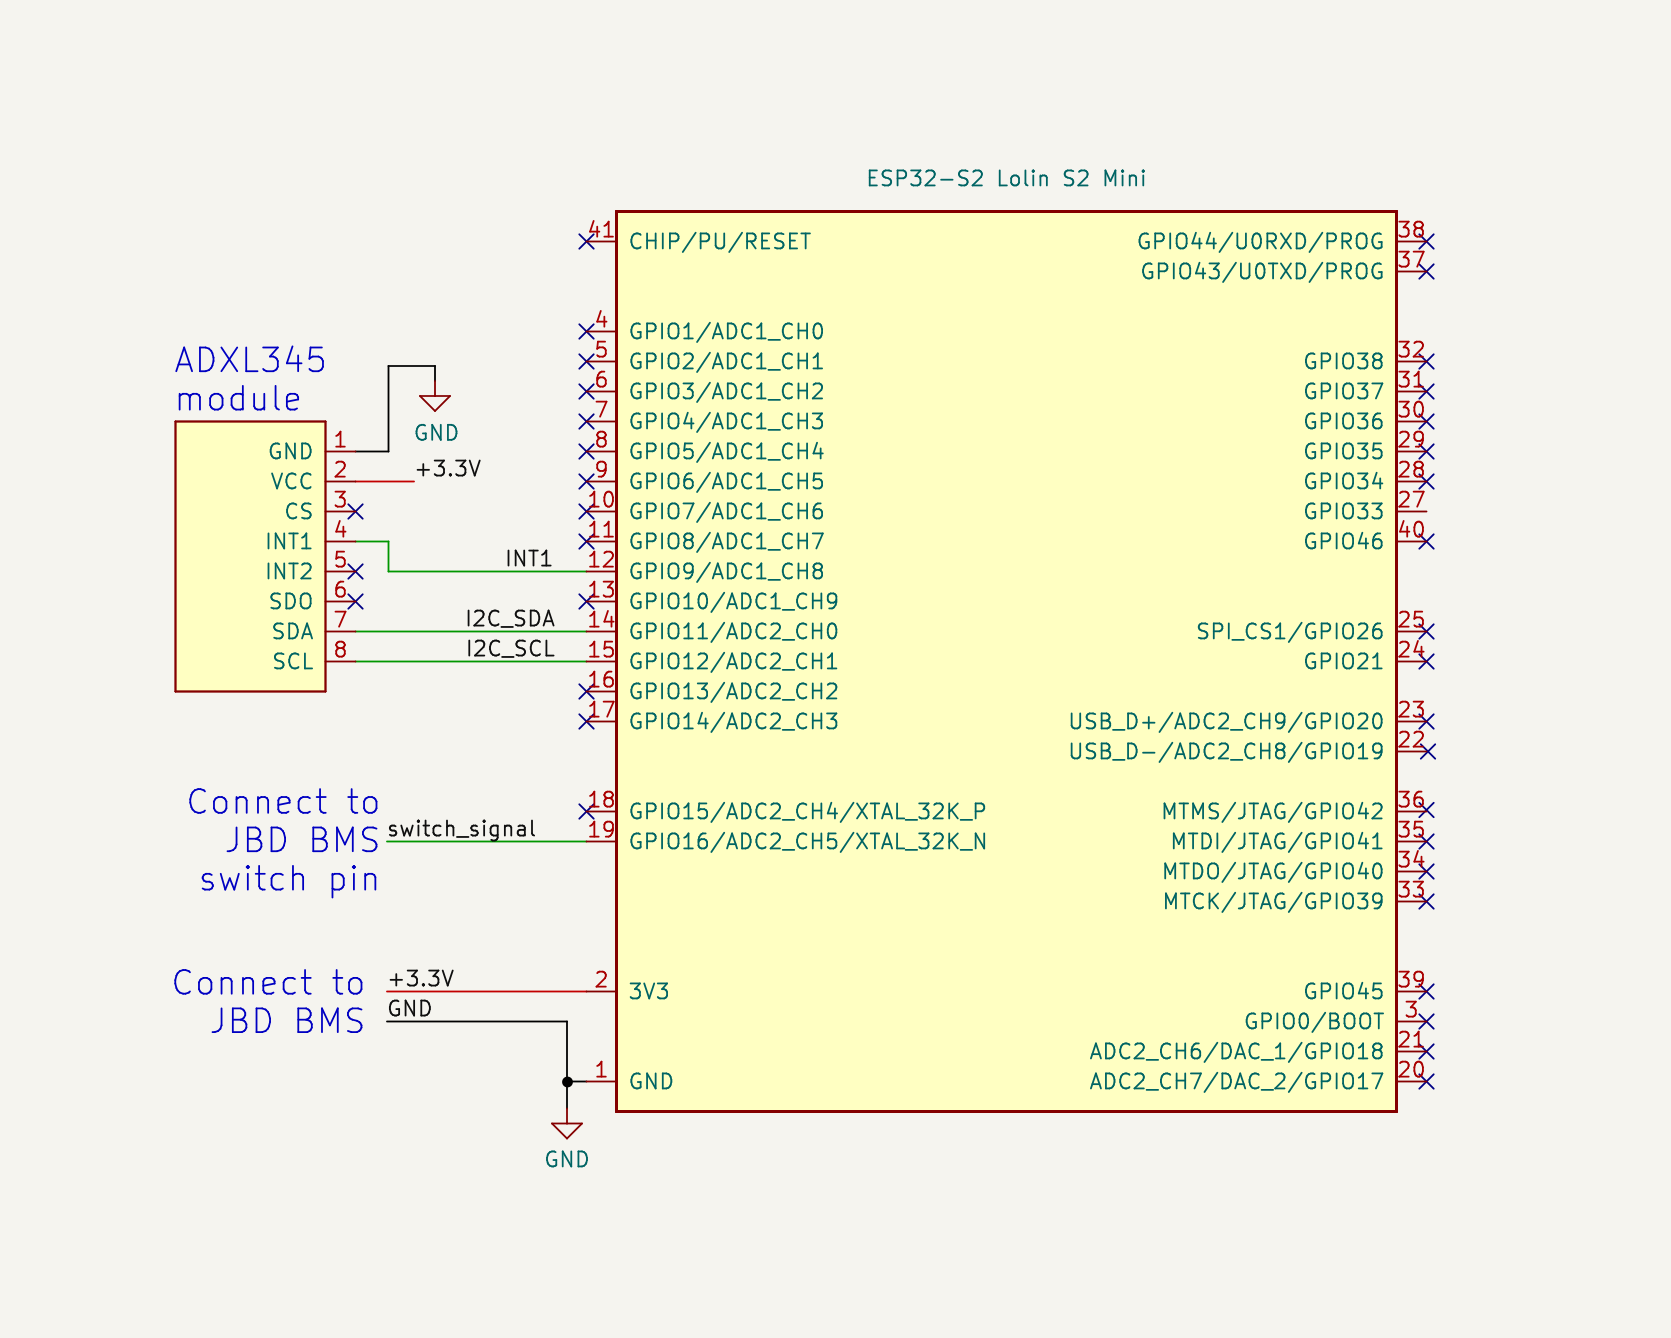
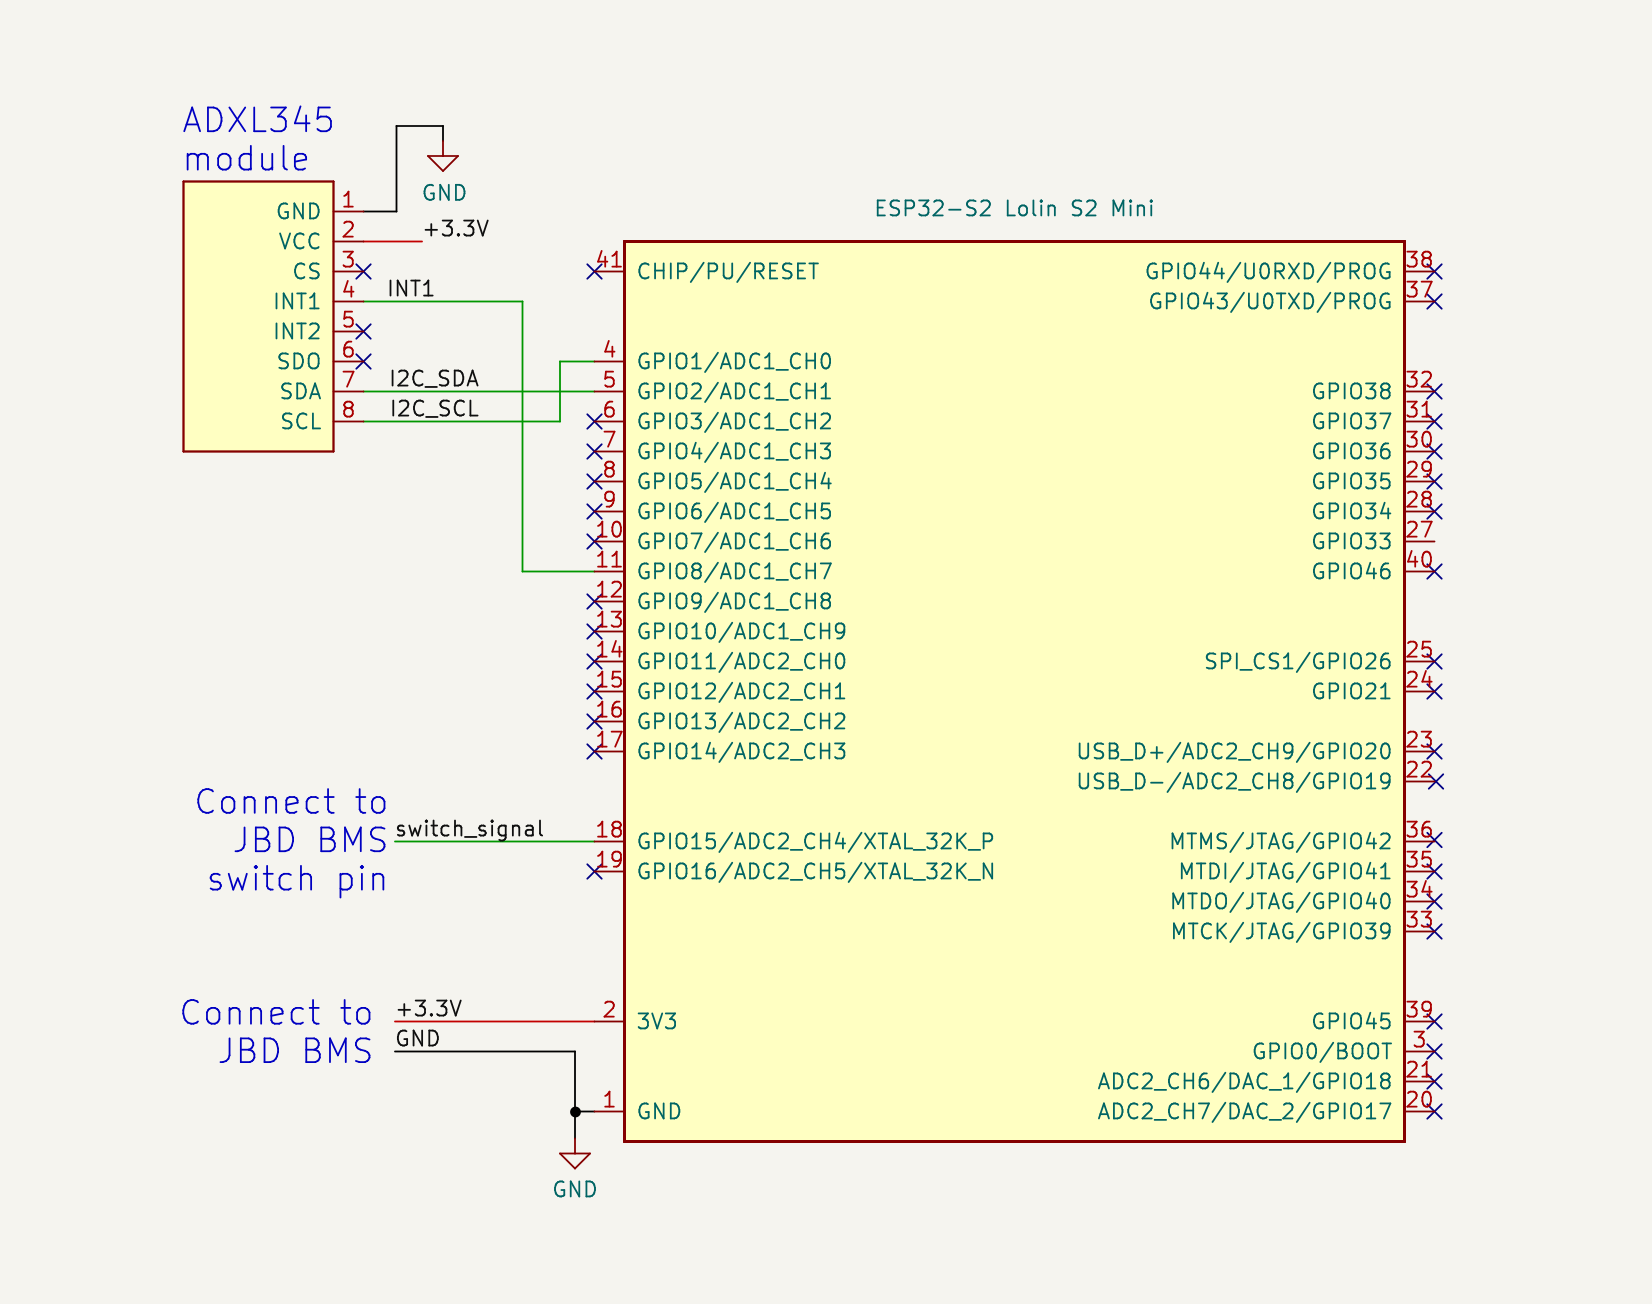
Firmware seems to work as expected, the final version. Updated schematic.png

Changed region(s): [[0.0926, 0.092, 0.8644, 0.9202], [0.247, 0.092, 0.2778, 0.1534]]

diff --git a/firmware/main.py b/firmware/main.py
@@ -2,14 +2,31 @@ import board
 import busio
 import adafruit_adxl34x
 import alarm
+import digitalio
+import time
 
-# pins used buy the ADXL345
+################################################################
+# CONFIGURATIONS
+
+timeout_minutes_to_disable_JBD_BMS = 20 # 20 minutes seems a good value
+
+################################################################
+
+# if we are here, is because
+# the system just wake up from deep sleep,
+# due to motion detection
+
+# enable the JBD BMS switch
+switch_pin_number = board.IO15
+switch_pin = digitalio.DigitalInOut(switch_pin_number)
+switch_pin.direction = digitalio.Direction.OUTPUT
+# JBD BMS is enabled by pulling the switch pin to GND
+switch_pin.value = False 
+
+# pins used by the ADXL345
 scl_pin = board.IO1
 sda_pin = board.IO2
 int1_pin = board.IO8
-
-# pin for the switch
-switch_pin = board.IO15
 
 # init the ADXL345
 i2c = busio.I2C(scl_pin, sda_pin)
@@ -17,9 +34,28 @@ accelerometer = adafruit_adxl34x.ADXL345(i2c)
 accelerometer.enable_motion_detection()
 accelerometer._read_clear_interrupt_source() # need to clear the interrupt
 
-# pin change alarm, will be active when movement is detected by the ADXL345
-pin_alarm = alarm.pin.PinAlarm(int1_pin, value = False)
+# pin change alarm, will be active when motion is detected by the ADXL345
+pin_alarm_motion_detection = alarm.pin.PinAlarm(int1_pin, value = False)
 
-# enter deep sleep
-alarm.exit_and_deep_sleep_until_alarms(pin_alarm)
-# does not return. Exits, and restarts after the sleep time.
+while True:
+  # calculate next timeout alarm
+  # next_time_to_timeout = time.monotonic() + (timeout_minutes_to_disable_JBD_BMS * 60)
+  next_time_to_timeout = time.monotonic() + (10)
+  timeout_alarm = alarm.time.TimeAlarm(monotonic_time = next_time_to_timeout)
+
+  # enter deep sleep and will wakeup only with movement detection or on the timeout
+  wakeup_reason = alarm.light_sleep_until_alarms(pin_alarm_motion_detection, timeout_alarm)
+  accelerometer._read_clear_interrupt_source() # need to clear the interrupt
+
+  if wakeup_reason == timeout_alarm:
+    # we just timeout, so leave this while True loop
+    break
+  
+# if we are here, we did timeout
+# disable JBD BMS switch pin
+switch_pin.value = True
+
+# now enter in deep sleep
+# preserve the switch pin state, which is disable
+alarm.exit_and_deep_sleep_until_alarms(pin_alarm_motion_detection, preserve_dios = [switch_pin])
+# Does not return. Exits, and restarts after the deep sleep time.
